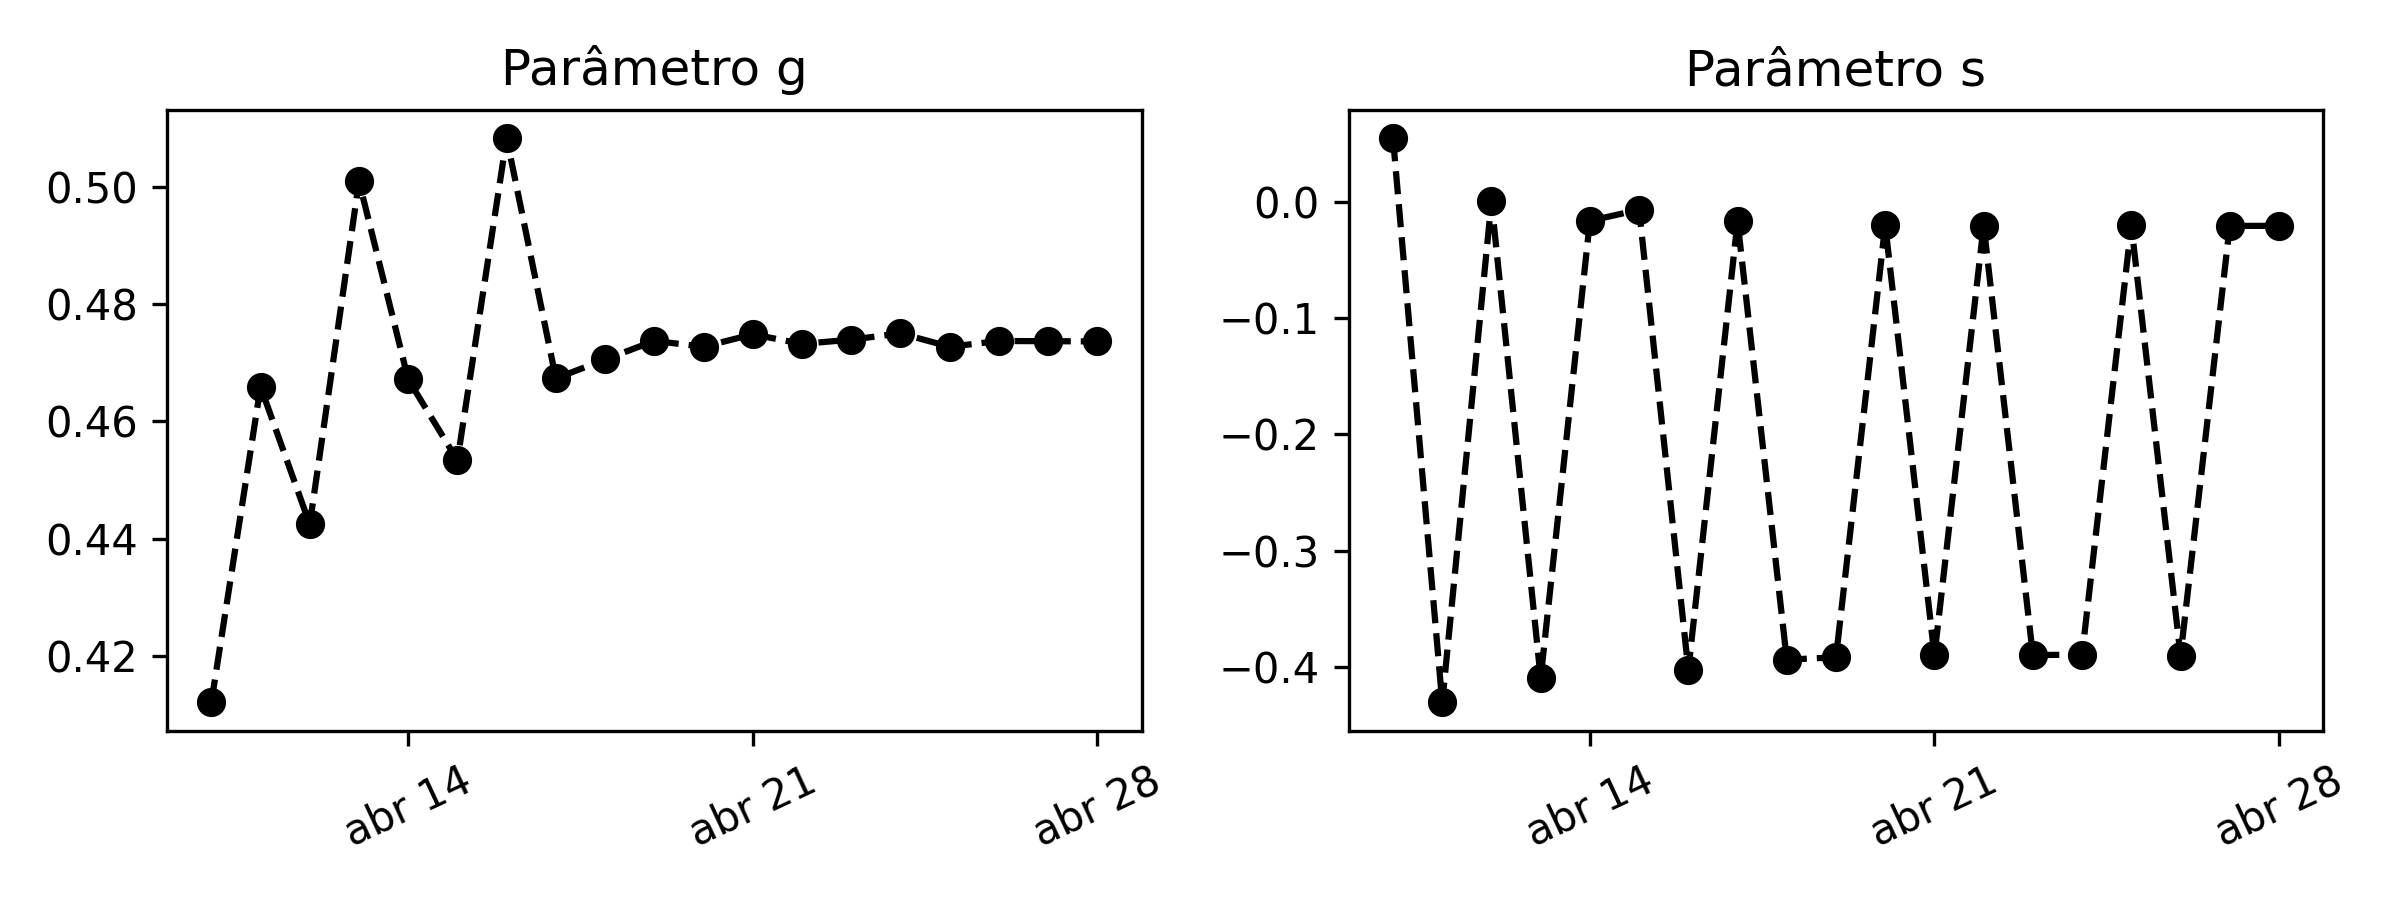
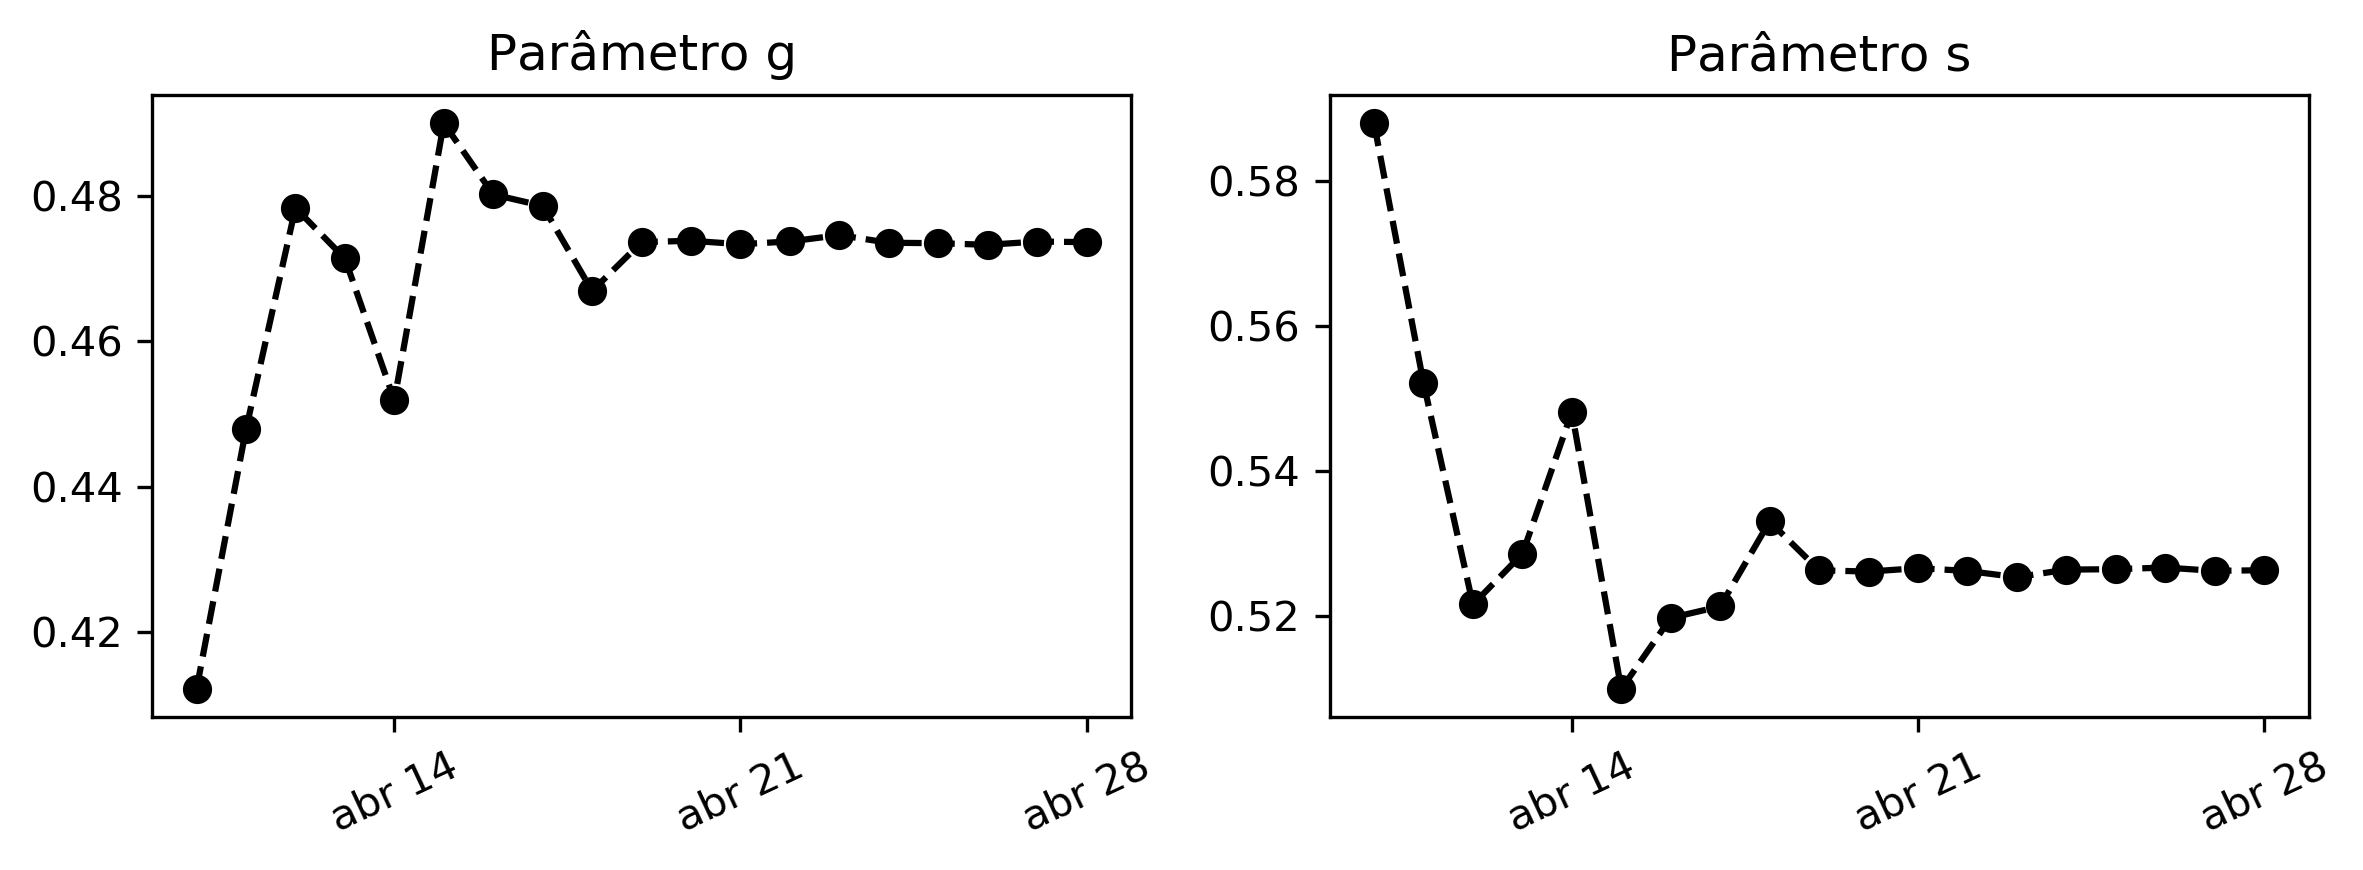
Atualização final do relatório

diff --git a/src/main.tex b/src/main.tex
@@ -398,6 +398,13 @@ s\:=\:\frac{2\Delta _g+\Delta _{nk}}{3}
 \label{eq10}
 \end{equation}
 
+\par Vale notar que, mesmo com a descrição do modelo feita acima, o valor de $s$ apresentado nos resultados abaixo está sendo calculado como descrito na Equação \ref{eq11}.
+
+\begin{equation}
+s\:=\:1-g
+\label{eq11}
+\end{equation}
+
 \par Com isto, para testar a implementação realizada, foram gerados casos de testes para todas as localidades que estão sendo analisadas neste trabalho. As subseções abaixo, porém, apresentam dois destes casos de teste, onde são considerados os dados do Estado de Minas Gerais e os dados gerais do Brasil. Os demais testes estão listados e documentados no repositório do projeto. Todos os testes foram desenvolvidos considerando o período de 08/04/2020 à 28/04/2020, uma vez que, o comportamento crescente do modelo, fez com que, a aplicação do mesmo neste trabalho, fosse feita de modo a considerar intervalos de predição.
 
 \par Para a realização de um comparativo da quantidade de elementos que foram estimadas pelo modelo são consideradas as quantidades de possíveis novos casos diários estimados pela Fiocruz.
